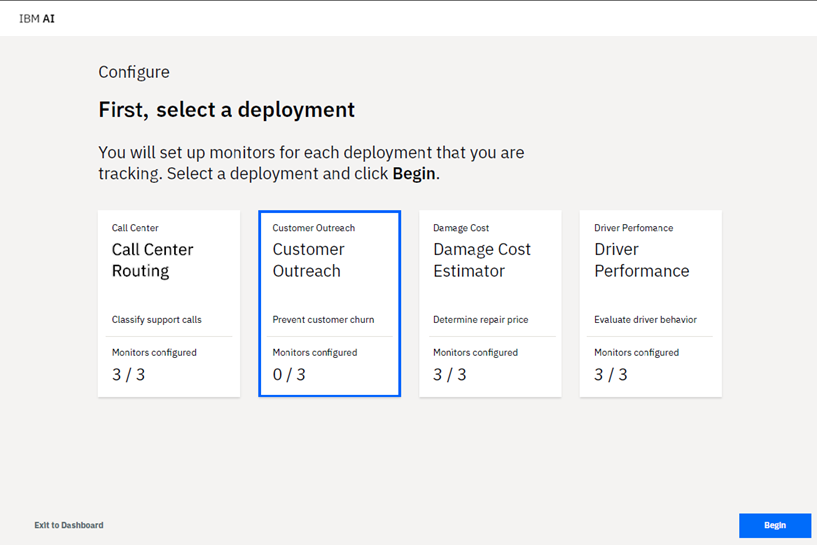
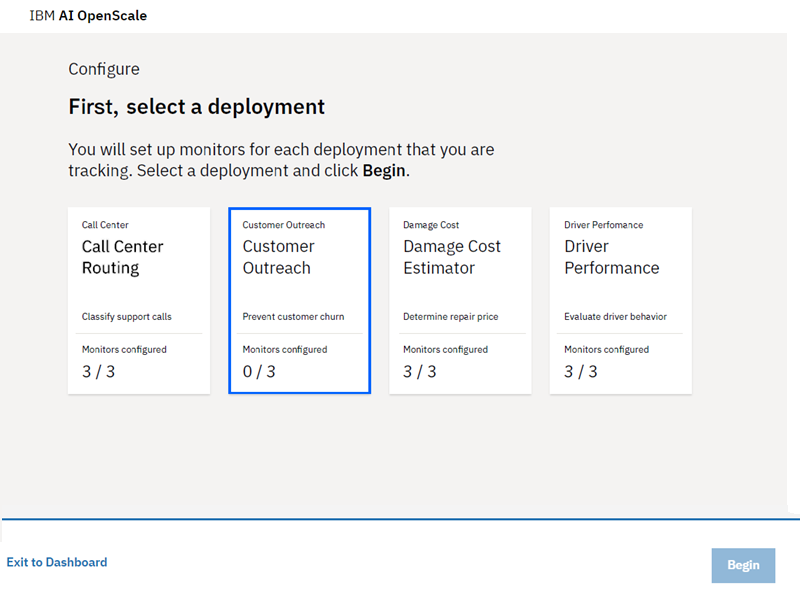
Some DUX review fixes
#4597, 4598, 4600, 4603

diff --git a/getting-started.md b/getting-started.md
@@ -10,7 +10,7 @@ takeaways:
 
 copyright:
   years: 2018, 2019
-lastupdated: "2019-01-17"
+lastupdated: "2019-01-21"
 
 ---
 
@@ -253,7 +253,11 @@ Before you can configure your monitors, you must generate at least one scoring r
 
 ### Preparing for monitoring
 
-1.  Now, in the {{site.data.keyword.aios_short}} instance, select your deployment, select the **Prepare for monitoring** tile, and then click **Begin**.
+1.  Now, in the {{site.data.keyword.aios_short}} instance, select your deployment and clcik **Begin**.
+
+    ![Select deployment](images/config-select-deploy2.png)
+
+1.  Select the **Prepare for monitoring** tile, and then click **Begin**.
 
     ![Prepare for monitoring](images/config-prep-monitor.png)
 
@@ -269,7 +273,7 @@ Before you can configure your monitors, you must generate at least one scoring r
 
     ![Select config type](images/config-manual-monitor.png)
 
-1.  Select the **Multi-class classification** [algorithm type](/docs/services/ai-openscale/monitor-accuracy.html#understand-accuracy), and click **Next**.
+1.  The algorithm type is important for monitoring your model metrics, such as Accuracy. Because there are multiple drug predictions that the model can make, select the **Multi-class classification** [algorithm type](/docs/services/ai-openscale/monitor-accuracy.html#understand-accuracy), and click **Next**.
 
     ![Multi-class](images/multiclass.png)
 
@@ -281,7 +285,12 @@ Before you can configure your monitors, you must generate at least one scoring r
 
     ![Specify Db2 location of schema and training table](images/gs-fair-config-table-db2.png)
 
-1.  Now, you must specify which column from the table contains prediction values (labels). In this case, it's the **DRUG** column, so select that one and click **Next**.
+1.  Now, you must specify the feature which contains the answer(s) the model will predict (in other words, in your database, which column from the table contains prediction values (labels)). In this case, the model will predict drug types, so select the **DRUG** column and click **Next**.
+
+    Your training database has the values that you provided in order to train your model.
+    {: note}
+
+    ![Predict Label Input](images/gs-config-label.png)
 
 1.  Select the columns used to train the model. This is the data that your model deployment expects in a request. All the data columns are inputs to the model. Select all inputs and click **Next**.
 
@@ -319,7 +328,7 @@ Before you can configure your monitors, you must generate at least one scoring r
 
 1.  Drag and drop values from the **Values from training data** field to the **Favorable values** and **Unfavorable values** fields. For this tutorial, the favorable values are **drugA** and **drugC**. The unfavorable values are **drugB** and **drugX**. Click **Next**.
 
-    {{site.data.keyword.aios_short}} automatically detects which column in the payload logging database (PostgreSQL) contains the prediction values, and presents them in the **Values from training data** field.
+    {{site.data.keyword.aios_short}} automatically detects which column in the payload logging database contains the prediction values, and presents them in the **Values from training data** field. Note that while your training database has values that you provided to train your model, the payload logging database contains feedback data collected at model runtime, that you can then optionally use to retrain and redeploy your model.
     {: note}
 
     ![Positive and negative values](images/pos_and_neg2.png)
